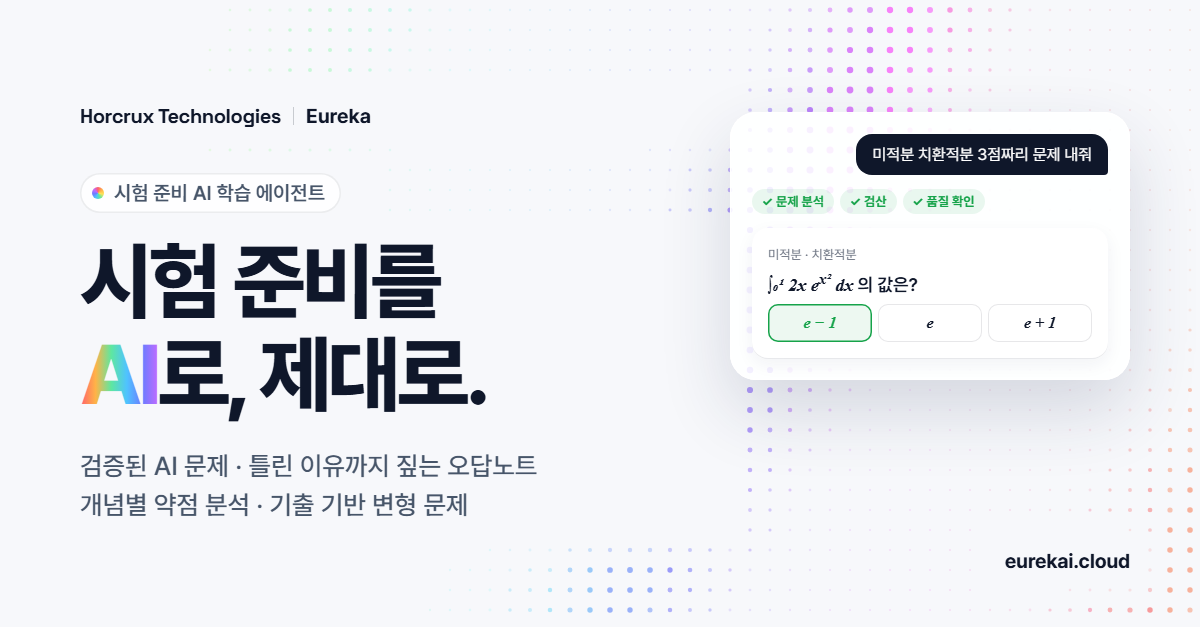
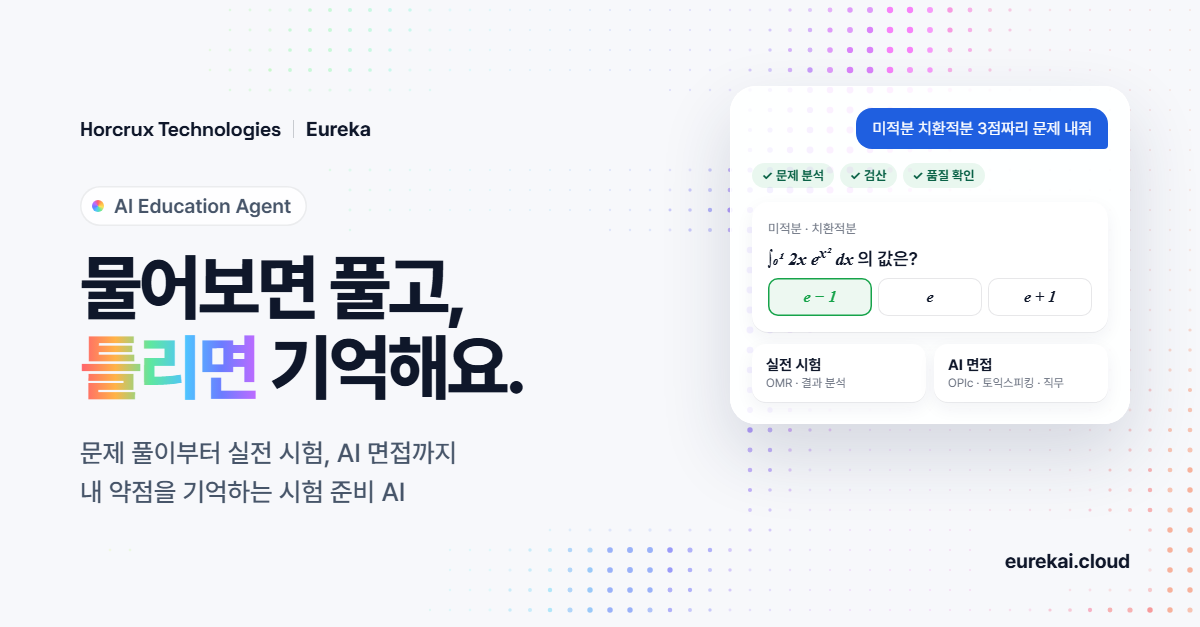
feat(share): 링크 미리보기 이미지와 공유 문구를 새 메시지로 (#66)
- og-image: 'AI Education Agent · 물어보면 풀고, 틀리면 기억해요.' + 실전 시험 · AI 면접 카드 (1200×627)
- 로그인 · 소개 페이지의 description · og/twitter 제목·설명 · 이미지 설명을 새 문구로 통일
- 이미지 주소 v=5 로 올려 링크드인·카카오톡이 예전 미리보기를 다시 가져가게

diff --git a/prototype/login.html b/prototype/login.html
@@ -12,21 +12,21 @@
 <link rel="icon" type="image/svg+xml" href="/app/icons/favicon.svg" />
 <link rel="icon" type="image/png" sizes="32x32" href="/app/icons/favicon-32.png" />
 <link rel="icon" type="image/png" sizes="192x192" href="/app/icons/icon-192.png" />
-<meta name="description" content="문제 생성부터 오답 분석, 약점 진단, 기출 기반 변형 문제까지. 시험 준비를 위한 AI, Eureka." />
-<meta property="og:title" content="Eureka — 시험 준비를 AI로" />
-<meta property="og:description" content="문제 생성부터 오답 분석, 개념별 약점 진단, 기출 기반 변형 문제까지 한곳에서. 검산까지 마친 고퀄리티 문제를 제공하는 시험 준비 AI 학습 에이전트 Eureka와 함께 수능 수학·과학을 제대로 준비해 보세요." />
+<meta name="description" content="문제 풀이부터 실전 시험, AI 면접까지. 검산을 마친 문제와 내 약점을 기억하는 AI Education Agent, Eureka." />
+<meta property="og:title" content="Eureka — AI Education Agent" />
+<meta property="og:description" content="문제 풀이부터 실전 시험, AI 면접까지. 검산을 마친 문제와 내 약점을 기억하는 AI Education Agent, Eureka." />
 <meta property="og:type" content="website" />
 <meta property="og:site_name" content="Eureka" />
 <meta property="og:locale" content="ko_KR" />
 <meta property="og:url" content="https://eurekai.cloud/app/login.html" />
-<meta property="og:image" content="https://eurekai.cloud/app/og-image.png?v=4" />
+<meta property="og:image" content="https://eurekai.cloud/app/og-image.png?v=5" />
 <meta property="og:image:type" content="image/png" />
 <meta property="og:image:width" content="1200" />
 <meta property="og:image:height" content="627" />
-<meta property="og:image:alt" content="Eureka — 시험 준비를 AI로, 제대로. 검증된 AI 문제와 오답노트, 약점 분석" />
+<meta property="og:image:alt" content="Eureka — 물어보면 풀고, 틀리면 기억해요. 문제 풀이부터 실전 시험, AI 면접까지" />
 <meta name="twitter:card" content="summary_large_image" />
-<meta name="twitter:description" content="문제 생성부터 오답 분석, 개념별 약점 진단, 기출 기반 변형 문제까지 한곳에서. 검산까지 마친 고퀄리티 문제를 제공하는 시험 준비 AI 학습 에이전트 Eureka와 함께 수능 수학·과학을 제대로 준비해 보세요." />
-<meta name="twitter:image" content="https://eurekai.cloud/app/og-image.png?v=4" />
+<meta name="twitter:description" content="문제 풀이부터 실전 시험, AI 면접까지. 검산을 마친 문제와 내 약점을 기억하는 AI Education Agent, Eureka." />
+<meta name="twitter:image" content="https://eurekai.cloud/app/og-image.png?v=5" />
 <link rel="canonical" href="https://eurekai.cloud/app/login.html" />
 <link rel="stylesheet" href="https://cdn.jsdelivr.net/gh/orioncactus/pretendard@v1.3.9/dist/web/variable/pretendardvariable.min.css" />
 <link rel="stylesheet" href="https://fonts.googleapis.com/css2?family=Space+Grotesk:wght@700&display=swap" />

diff --git a/prototype/landing.html b/prototype/landing.html
@@ -11,14 +11,14 @@
 <meta property="og:site_name" content="Eureka" />
 <meta property="og:locale" content="ko_KR" />
 <meta property="og:url" content="https://eurekai.cloud/" />
-<meta property="og:image" content="https://eurekai.cloud/app/og-image.png?v=4" />
+<meta property="og:image" content="https://eurekai.cloud/app/og-image.png?v=5" />
 <meta property="og:image:type" content="image/png" />
 <meta property="og:image:width" content="1200" />
 <meta property="og:image:height" content="627" />
-<meta property="og:image:alt" content="Eureka — 시험 준비를 AI로, 제대로. 검증된 AI 문제와 오답노트, 약점 분석" />
+<meta property="og:image:alt" content="Eureka — 물어보면 풀고, 틀리면 기억해요. 문제 풀이부터 실전 시험, AI 면접까지" />
 <meta name="twitter:card" content="summary_large_image" />
-<meta name="twitter:description" content="말하면 문제가 나오고, 틀리면 이유를 알려 주고, 약한 개념은 다시 채워 줘요. 검산을 마친 문제만 도착하는 시험 준비 AI, Eureka와 함께 수능 수학·과학을 제대로 준비해 보세요." />
-<meta name="twitter:image" content="https://eurekai.cloud/app/og-image.png?v=4" />
+<meta name="twitter:description" content="문제 풀이부터 실전 시험, AI 면접까지. 검산을 마친 문제와 내 약점을 기억하는 AI Education Agent, Eureka." />
+<meta name="twitter:image" content="https://eurekai.cloud/app/og-image.png?v=5" />
 <link rel="canonical" href="https://eurekai.cloud/" />
 <link rel="manifest" href="/app/manifest.webmanifest" />
 <meta name="theme-color" content="#f7f8fb" />

diff --git a/tests/test_admin.py b/tests/test_admin.py
@@ -33,7 +33,7 @@ def test_admin_page_and_landing_are_served(client):
     page = client.get("/admin")
     assert page.status_code == 200 and "관리자 로그인" in page.text and page.headers["x-robots-tag"] == "noindex"
     landing = client.get("/").text
-    assert 'property="og:image" content="https://eurekai.cloud/app/og-image.png?v=4"' in landing  # 링크드인·카톡 미리보기
+    assert 'property="og:image" content="https://eurekai.cloud/app/og-image.png?v=5"' in landing  # 링크드인·카톡 미리보기
     assert client.get("/app/og-image.png").headers["content-type"] == "image/png"
 
 
